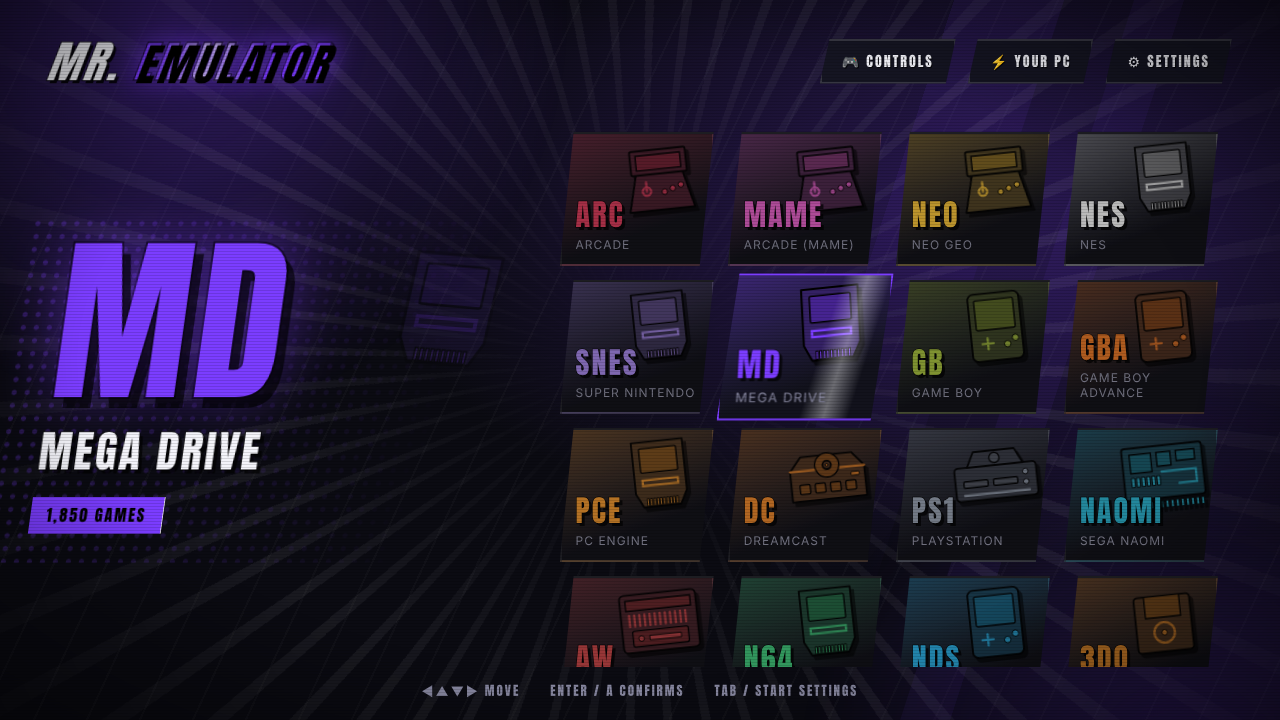
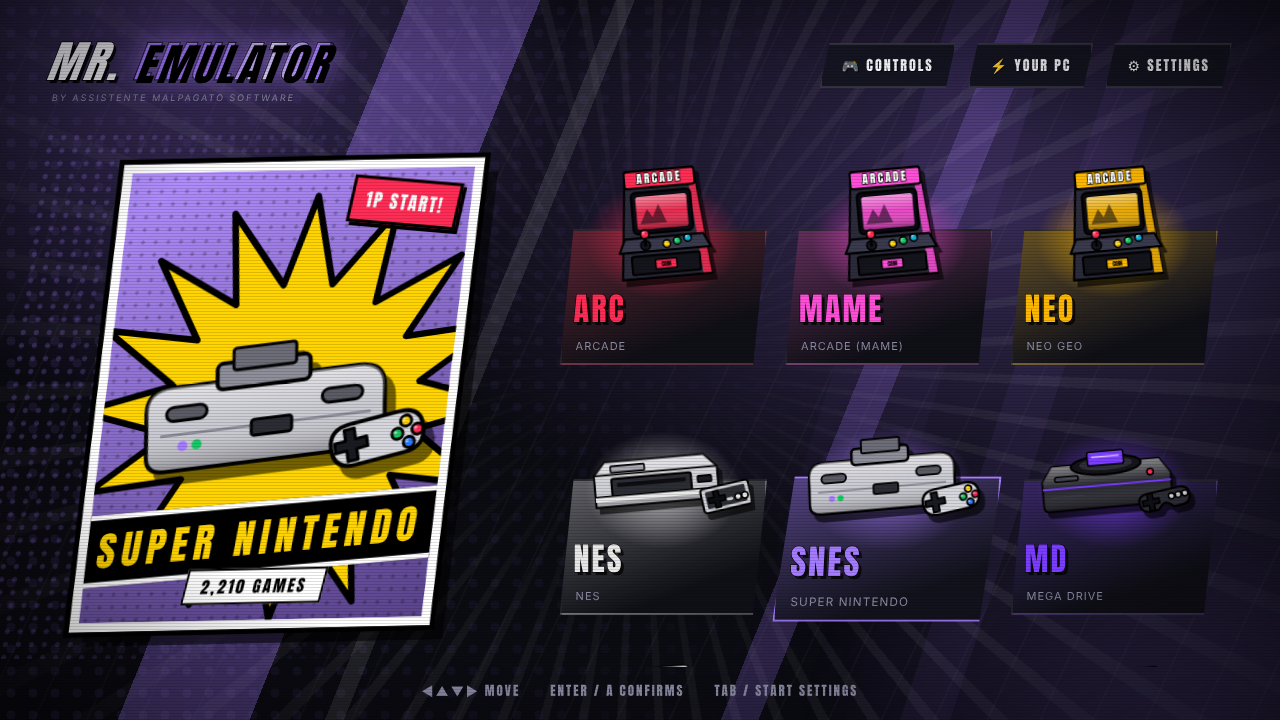
v0.2.0: grafica a fumetto/palcoscenico, immagini console, pulizia codice morto

diff --git a/src/renderer/src/styles.css b/src/renderer/src/styles.css
@@ -46,9 +46,6 @@ button { font: inherit; color: inherit; background: none; border: 0; cursor: poi
 .select-body { flex: 1; display: grid; grid-template-columns: 1fr 1.5fr; gap: 40px; min-height: 0; align-items: center; }
 .hero { animation: heroIn .4s cubic-bezier(.2,.9,.2,1); transform: skewX(-8deg); }
 @keyframes heroIn { from { opacity: 0; transform: translateX(-60px) skewX(-8deg); } to { opacity: 1; transform: skewX(-8deg); } }
-.hero-short { font-family: var(--font); font-size: clamp(90px, 14vw, 190px); line-height: .9; color: var(--accent); text-shadow: 0 0 40px color-mix(in srgb, var(--accent) 60%, transparent); letter-spacing: 3px; }
-.hero-name { font-family: var(--font); font-size: clamp(26px, 3.4vw, 46px); letter-spacing: 2px; margin-top: 10px; text-transform: uppercase; }
-.hero-count { display: inline-block; margin-top: 14px; padding: 6px 16px; background: var(--accent); color: #000; font-family: var(--font); letter-spacing: 2px; }
 
 .grid { display: grid; gap: 14px; }
 .tile {
@@ -82,14 +79,8 @@ button { font: inherit; color: inherit; background: none; border: 0; cursor: poi
 .empty { color: var(--muted); line-height: 1.7; padding: 30px; }
 .preview { display: grid; place-items: center; }
 .preview-card { width: 100%; max-width: 420px; text-align: center; animation: heroIn .3s cubic-bezier(.2,.9,.2,1); }
-.preview-art {
-  aspect-ratio: 4/3; display: grid; place-items: center; font-family: var(--font); font-size: 140px; color: var(--accent);
-  background: repeating-linear-gradient(135deg, rgba(255,255,255,.05) 0 10px, transparent 10px 20px), var(--panel);
-  border: 2px solid var(--accent); clip-path: polygon(24px 0, 100% 0, calc(100% - 24px) 100%, 0 100%); box-shadow: 0 0 40px color-mix(in srgb, var(--accent) 40%, transparent);
-}
 .preview-name { margin-top: 18px; font-family: var(--font); font-size: 30px; letter-spacing: 1.5px; }
 .preview-meta { color: var(--accent); margin-top: 4px; letter-spacing: 2px; text-transform: uppercase; font-weight: 700; }
-.preview-file { color: var(--muted); font-size: 12px; margin-top: 6px; }
 .preview-start { margin-top: 20px; font-family: var(--font); letter-spacing: 2px; animation: blink 1s steps(2) infinite; }
 @keyframes blink { 50% { opacity: .35; } }
 .toast { position: absolute; left: 50%; bottom: 28px; transform: translateX(-50%); max-width: 80%; padding: 14px 28px; background: #ffd400; color: #000; font-weight: 700; clip-path: polygon(14px 0, 100% 0, calc(100% - 14px) 100%, 0 100%); animation: enter .25s; }
@@ -105,16 +96,9 @@ button { font: inherit; color: inherit; background: none; border: 0; cursor: poi
 .big:hover { filter: brightness(1.15); }
 .note { color: var(--muted); font-size: 13px; }
 
-@media (max-width: 1000px) { .select-body { grid-template-columns: 1fr; } .hero-short { font-size: 90px; } }
+@media (max-width: 1000px) { .select-body { grid-template-columns: 1fr; } }
 
 /* copertina reale: mostrata intera, senza ritagli, qualunque sia il formato */
-.preview-img { display: flex; justify-content: center; align-items: center; height: min(46vh, 380px); animation: enter .3s; }
-.preview-img img {
-  max-width: 100%; max-height: 100%; width: auto; height: auto; object-fit: contain;
-  border: 3px solid var(--accent); border-radius: 4px; background: #000;
-  box-shadow: 0 0 34px color-mix(in srgb, var(--accent) 55%, transparent), 0 14px 30px rgba(0,0,0,.6);
-  image-rendering: auto;
-}
 
 .preview-name { line-height: 1.15; }
 .preview-tag { margin-top: 4px; font-size: 13px; color: var(--muted); }
@@ -149,9 +133,6 @@ button { font: inherit; color: inherit; background: none; border: 0; cursor: poi
   background: linear-gradient(105deg, transparent 38%, rgba(255,255,255,.38) 50%, transparent 62%);
   transform: translateX(-130%); animation: shine 1.8s ease-in-out infinite; }
 @keyframes shine { 55%, 100% { transform: translateX(130%); } }
-
-.hero-short { animation: floaty 4s ease-in-out infinite alternate; }
-@keyframes floaty { from { transform: translateY(-6px); } to { transform: translateY(8px); } }
 .logo span { background: linear-gradient(100deg, var(--accent) 40%, #fff 50%, var(--accent) 60%); background-size: 250% 100%;
   -webkit-background-clip: text; background-clip: text; -webkit-text-fill-color: transparent; animation: logoShine 3.6s linear infinite; }
 @keyframes logoShine { from { background-position: 150% 0; } to { background-position: -50% 0; } }
@@ -178,15 +159,12 @@ button { font: inherit; color: inherit; background: none; border: 0; cursor: poi
 .cv.center img { filter: drop-shadow(0 0 22px var(--accent)); }
 .cv.center .cv-inner { animation: sway 4.5s ease-in-out infinite alternate; }
 @keyframes sway { from { transform: rotateY(-10deg); } to { transform: rotateY(10deg); } }
-.cv-ph { width: 90%; height: 94%; display: grid; place-items: center; font-family: var(--font); font-size: 84px; color: var(--accent);
-  background: repeating-linear-gradient(135deg, rgba(255,255,255,.05) 0 10px, transparent 10px 20px), var(--panel);
-  border: 2px solid color-mix(in srgb, var(--accent) 70%, transparent); }
 .preview-card { margin-top: 2px; }
 .preview-name { font-size: clamp(22px, 2.4vw, 32px); }
 
 /* ---- effetti ridotti (PC lenti) ---- */
 .light-fx .fx-scan, .light-fx .orbs, .light-fx .bg-art, .light-fx .tile.active::after, .light-fx .wipe { display: none; }
-.light-fx .hero-short, .light-fx .tile.active, .light-fx .logo span, .light-fx .cv.center .cv-inner, .light-fx .preview-start { animation: none; }
+ .light-fx .tile.active, .light-fx .logo span, .light-fx .cv.center .cv-inner, .light-fx .preview-start { animation: none; }
 .light-fx .cv img { -webkit-box-reflect: unset; }
 .light-fx .logo span { -webkit-text-fill-color: var(--accent); background: none; }
 
@@ -345,8 +323,6 @@ kbd { font-family: var(--font); letter-spacing: 1px; min-width: 38px; text-align
   background: rgba(255,255,255,.04); border-left: 4px solid var(--accent); }
 .sp-cover { flex: none; width: 118px; height: 160px; display: grid; place-items: center; }
 .sp-cover img { max-width: 100%; max-height: 100%; object-fit: contain; filter: drop-shadow(0 0 14px var(--accent)); animation: enter .3s; }
-.sp-cover-ph { width: 100%; height: 100%; display: grid; place-items: center; font-family: var(--font); font-size: 54px; color: var(--accent);
-  background: repeating-linear-gradient(135deg, rgba(255,255,255,.05) 0 8px, transparent 8px 16px), var(--bg); border: 2px solid color-mix(in srgb, var(--accent) 70%, transparent); }
 .sp-pinfo { min-width: 0; display: flex; flex-direction: column; gap: 4px; }
 .sp-pname { font-family: var(--font); font-size: 24px; letter-spacing: 1px; line-height: 1.1; }
 .sp-ptag { font-size: 12px; color: var(--muted); } .sp-pmeta { color: var(--accent); font-weight: 700; font-size: 13px; letter-spacing: 1.5px; text-transform: uppercase; }
@@ -381,15 +357,12 @@ b.fav { color: #ffd400; margin-right: 8px; font-weight: 400; } .row.active b.fav
    DIREZIONE ARTISTICA: fumetto da picchiaduro
    carattere robusto, contorni e ombre nette, retino, raggi, lame diagonali
    ================================================================ */
-.logo, .sys-title, .hero-short, .hero-name, .chip, .badge, .modal-title, .at-title, .ls-title { font-weight: 400; }
+.logo, .sys-title, .chip, .badge, .modal-title, .at-title, .ls-title { font-weight: 400; }
 
 /* titoli: contorno scuro e ombra spigolosa, come nei menu dei picchiaduro */
 .logo { -webkit-text-stroke: 1.5px #000; paint-order: stroke fill; text-shadow: 3px 3px 0 rgba(0,0,0,.85); letter-spacing: 3px; font-size: 44px; }
 .logo span { text-shadow: 3px 3px 0 #000, 0 0 26px var(--accent); }
 .sys-title { -webkit-text-stroke: 1.5px #000; paint-order: stroke fill; text-shadow: 3px 3px 0 rgba(0,0,0,.85); letter-spacing: 3px; }
-.hero-short { -webkit-text-stroke: 4px #000; paint-order: stroke fill; letter-spacing: 6px;
-  text-shadow: 10px 10px 0 rgba(0,0,0,.65), 0 0 60px color-mix(in srgb, var(--accent) 55%, transparent); }
-.hero-name { -webkit-text-stroke: 1.5px #000; paint-order: stroke fill; text-shadow: 4px 4px 0 rgba(0,0,0,.7); letter-spacing: 3px; }
 
 /* retino dietro il nome del sistema */
 .hero { position: relative; }
@@ -426,7 +399,6 @@ b.fav { color: #ffd400; margin-right: 8px; font-weight: 400; } .row.active b.fav
 .ls-cover { position: absolute; left: 7%; top: 50%; height: min(62vh, 520px); width: min(30vw, 400px); transform: translateY(-50%) rotate(-3deg); animation: lsCover 1.35s cubic-bezier(.2,.8,.2,1) both; display: grid; place-items: center; }
 @keyframes lsCover { 0% { transform: translateY(-50%) rotate(-12deg) scale(.4); opacity: 0; } 28% { transform: translateY(-50%) rotate(-3deg) scale(1.04); opacity: 1; } 100% { transform: translateY(-50%) rotate(-3deg) scale(1.12); opacity: 1; } }
 .ls-cover img { max-width: 100%; max-height: 100%; object-fit: contain; filter: drop-shadow(10px 10px 0 rgba(0,0,0,.6)); }
-.ls-ph { font-family: var(--font); font-size: 150px; color: #000; }
 .ls-text { position: absolute; left: 46%; top: 50%; transform: translateY(-50%); right: 4%; }
 .ls-sys { font-family: var(--font); letter-spacing: 6px; color: var(--accent); font-size: clamp(18px, 2vw, 26px); animation: lsFade .3s .1s both; }
 .ls-title { font-family: var(--font); font-size: clamp(40px, 5.5vw, 84px); line-height: 1; text-transform: uppercase; -webkit-text-stroke: 3px #000; paint-order: stroke fill; text-shadow: 8px 8px 0 rgba(0,0,0,.7); animation: lsTitle .4s .15s cubic-bezier(.2,.9,.2,1) both; }
@@ -536,12 +508,8 @@ b.warnmark { color: #ffd400; margin-right: 8px; font-weight: 400; } .row.active 
 .sysart .g-screen { fill: color-mix(in srgb, var(--c) 55%, #05050a); stroke: #000; stroke-width: 3; }
 .sysart .g-line { fill: none; stroke: var(--c); stroke-width: 5; stroke-linecap: round; }
 .sysart .g-dot { fill: var(--c); stroke: #000; stroke-width: 2; }
-.tile-art { position: absolute; right: 6px; top: 6px; width: 62%; height: auto; opacity: .85; transform: rotate(-6deg); filter: drop-shadow(3px 4px 0 rgba(0,0,0,.6)); pointer-events: none; }
-.tile.active .tile-art { opacity: 1; }
 .tile-short, .tile-name { position: relative; z-index: 1; }
 .hero { position: relative; }
-.hero-art { position: absolute; right: -10px; top: 0; width: min(34%, 260px); height: auto; opacity: .22; transform: rotate(5deg); pointer-events: none; --tile: var(--accent); }
-.hero > *:not(.hero-art) { position: relative; z-index: 1; }
 
 /* molti sistemi: la griglia scorre dentro il suo spazio (senza finire sotto i suggerimenti) */
 .select-body > .grid { max-height: 100%; overflow-y: auto; padding: 18px 14px; scrollbar-width: none; }

diff --git a/src/main/artwork.ts b/src/main/artwork.ts
@@ -187,15 +187,6 @@ async function download(sys: string, kind: string, file: string): Promise<Fetche
   return 'error'
 }
 
-/** Sostituisce i nomi brevi (kof98) con i titoli completi del DAT FBNeo e riordina */
-export async function withFullTitles(games: Game[]): Promise<Game[]> {
-  const titles = await arcadeTitles()
-  if (!titles) return games
-  return games
-    .map((g) => ({ ...g, name: titles.get(parse(g.fileName).name.toLowerCase()) ?? g.name }))
-    .sort((a, b) => a.name.localeCompare(b.name, 'it'))
-}
-
 const inflight = new Map<string, Promise<string | null>>()
 
 export function getArt(game: Game, system: SystemDef, enabled: boolean, kind: ArtKind): Promise<string | null> {

diff --git a/src/renderer/src/App.tsx b/src/renderer/src/App.tsx
@@ -9,7 +9,7 @@ import FirstRun from './components/FirstRun'
 import { refreshConsoleArt } from './consoleArt'
 import TitleScreen from './components/TitleScreen'
 import ResumeDialog, { type ResumeChoice } from './components/ResumeDialog'
-import { getLang, setLang, useLangVersion, type LangSetting, t } from './i18n'
+import { setLang, useLangVersion, type LangSetting, t } from './i18n'
 import RomCheck from './components/RomCheck'
 import FeedbackPrompt from './components/FeedbackPrompt'
 import LaunchSequence from './components/LaunchSequence'

diff --git a/src/main/datfiles.ts b/src/main/datfiles.ts
@@ -100,11 +100,3 @@ export function datTitles(dir: string, systemId: string, extraKeys: RegExp = KEY
   return out
 }
 
-/** Quanti DAT letti e per quali sistemi sono stati riconosciuti (per il controllo nelle impostazioni) */
-export function datSummary(dir: string): Array<{ header: string; count: number; systems: string[] }> {
-  return loadDats(dir).map((d) => ({
-    header: d.header,
-    count: d.titles.size,
-    systems: Object.keys(KEYWORDS).filter((k) => KEYWORDS[k].test(`${d.header} ${d.file}`))
-  }))
-}

diff --git a/src/main/softlist.ts b/src/main/softlist.ts
@@ -1,7 +1,7 @@
 import { writeFileAtomic } from './atomic'
 import { execFile } from 'child_process'
 import { dirname, join } from 'path'
-import { existsSync, mkdirSync, readFileSync, writeFileSync } from 'fs'
+import { existsSync, mkdirSync, readFileSync } from 'fs'
 
 const decode = (s: string): string =>
   s.replace(/&amp;/g, '&').replace(/&lt;/g, '<').replace(/&gt;/g, '>').replace(/&quot;/g, '"').replace(/&apos;/g, "'")

diff --git a/src/shared/types.ts b/src/shared/types.ts
@@ -343,11 +343,6 @@ export interface GameEnded {
 
 export type Feedback = 'ok' | 'slow' | 'better'
 
-export interface FolderInfo {
-  romsDir: string
-  biosDir: string
-}
-
 export interface LaunchResult {
   ok: boolean
   error?: string

diff --git a/docs/RELEASE_NOTES.md b/docs/RELEASE_NOTES.md
@@ -1,4 +1,15 @@
-## Mr. Emulator 0.1.5
+## Mr. Emulator 0.2.0
+
+**Download:** `Mr-Emulator-Setup-<version>.exe` below. Windows may warn that the app is unsigned: **More info → Run anyway**.
+
+### New
+- 🎨 **New home screen**: every system shows its console in a comic **poster** (burst, "1P START!" tag, ribbon) with **pop-out tiles** and a comic background that keeps the fade effects.
+- 🎭 **Two styles**: *Comic* or *Stage* (spotlight). Choose in **Settings → Look**.
+- 🕹 **Console illustrations** for arcade, NES, SNES, Mega Drive, PlayStation and Game Boy.
+- 📷 **Your own console photos**: drop `<system>.png` (e.g. `snes.png`) in the consoles folder (Settings → Look → open folder). Photos are automatically stylised (background removed, comic outline); can be turned off.
+- 🧹 Code cleanup: unused code and styles removed.
+
+### Previous: 0.1.5
 
 **Download:** `Mr-Emulator-Setup-<version>.exe` below. Windows may warn that the app is unsigned: **More info → Run anyway**.
 
